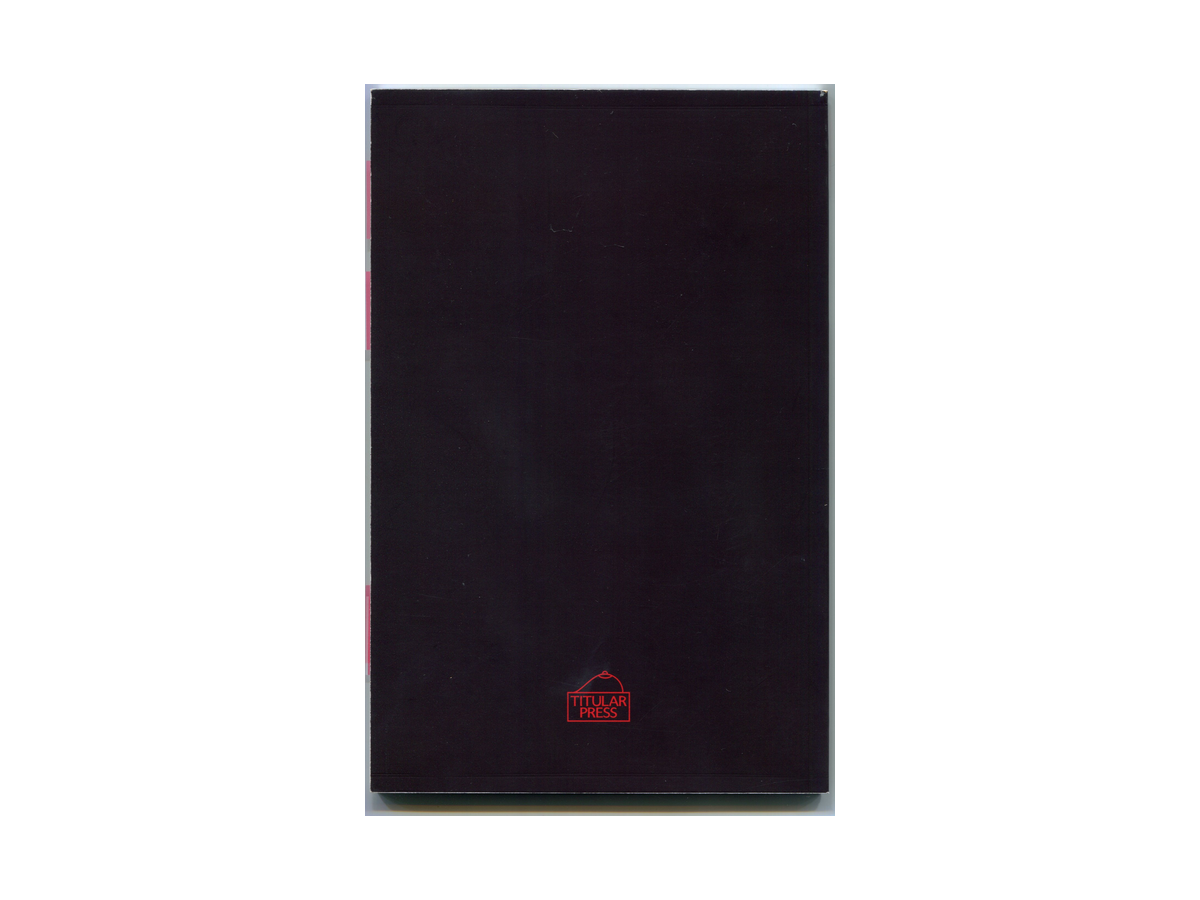
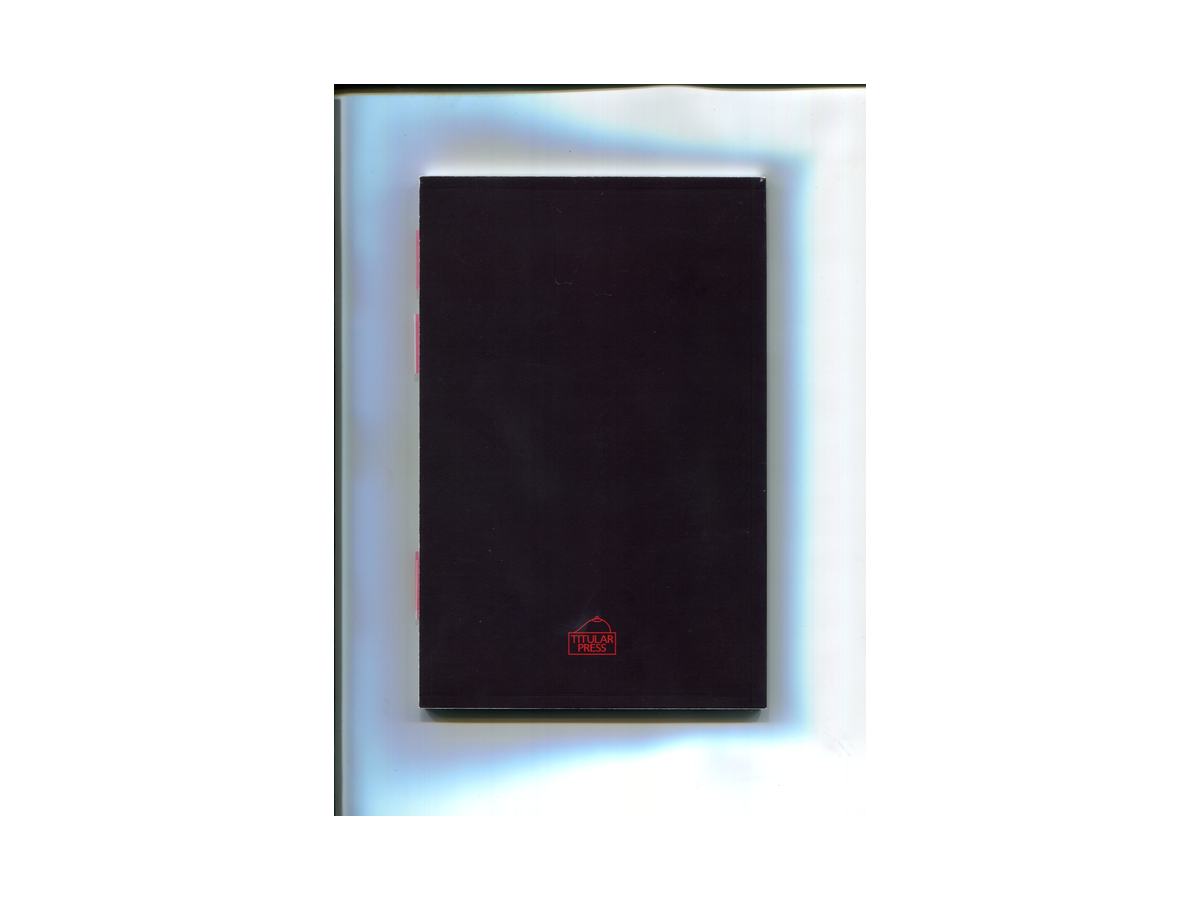
Simplify library scan processing

Changed region(s): [[0.2775, 0.0933, 0.7092, 0.9333]]

diff --git a/photos.js b/photos.js
@@ -1,5 +1,6 @@
 window.archivePhotos = [
   {"src": "images/library/processed/front/01-privacy-by-molly-young-front.png", "caption": "Privacy By Molly Young", "backSrc": "images/library/processed/back/01-privacy-by-molly-young-back.png"},
-  {"src": "images/library/processed/front/02-the-paris-review-254-front.png", "caption": "The Paris Review 254", "backSrc": "images/library/processed/back/02-the-paris-review-254-back.png"},
-  {"src": "images/library/processed/front/03-women-at-work-by-the-paris-review-front.png", "caption": "Women At Work By The Paris Review", "backSrc": "images/library/processed/back/03-women-at-work-by-the-paris-review-back.png"},
+  {"src": "images/library/processed/front/02-the-hour-of-the-star-by-clarice-lispector-front.png", "caption": "The Hour Of The Star By Clarice Lispector", "backSrc": "images/library/processed/back/02-the-hour-of-the-star-by-clarice-lispector-back.png"},
+  {"src": "images/library/processed/front/03-the-paris-review-254-front.png", "caption": "The Paris Review 254", "backSrc": "images/library/processed/back/03-the-paris-review-254-back.png"},
+  {"src": "images/library/processed/front/04-women-at-work-by-the-paris-review-front.png", "caption": "Women At Work By The Paris Review", "backSrc": "images/library/processed/back/04-women-at-work-by-the-paris-review-back.png"},
 ];

diff --git a/styles.css b/styles.css
@@ -89,7 +89,7 @@ h1,
 .photo-holder {
   aspect-ratio: 4 / 3;
   display: block;
-  object-fit: cover;
+  object-fit: contain;
   width: 100%;
 }
 

diff --git a/tools/process_library_images.py b/tools/process_library_images.py
@@ -2,11 +2,10 @@
 from __future__ import annotations
 
 import json
-import math
 import re
 from pathlib import Path
 
-from PIL import Image, ImageChops, ImageFilter, ImageStat
+from PIL import Image, ImageOps
 
 ROOT = Path(__file__).resolve().parents[1]
 ORIGINALS_DIR = ROOT / "images" / "library" / "originals"
@@ -33,164 +32,11 @@ def caption_from_name(path: Path) -> str:
     return words.title() if words else "Caption"
 
 
-def largest_inner_component_bbox(mask: Image.Image) -> tuple[int, int, int, int] | None:
-    width, height = mask.size
-    max_side = max(width, height)
-    scale = min(1.0, 900 / max_side)
-    work = mask
-    if scale < 1:
-        work = mask.resize(
-            (max(1, round(width * scale)), max(1, round(height * scale))),
-            Image.Resampling.NEAREST,
-        )
-
-    work_width, work_height = work.size
-    pixels = work.load()
-    seen = bytearray(work_width * work_height)
-    best: tuple[int, int, int, int, int] | None = None
-
-    for y in range(work_height):
-        for x in range(work_width):
-            index = y * work_width + x
-            if seen[index] or pixels[x, y] == 0:
-                continue
-
-            stack = [(x, y)]
-            seen[index] = 1
-            area = 0
-            left = right = x
-            top = bottom = y
-            touches_border = False
-
-            while stack:
-                current_x, current_y = stack.pop()
-                area += 1
-                left = min(left, current_x)
-                right = max(right, current_x)
-                top = min(top, current_y)
-                bottom = max(bottom, current_y)
-
-                if (
-                    current_x == 0
-                    or current_y == 0
-                    or current_x == work_width - 1
-                    or current_y == work_height - 1
-                ):
-                    touches_border = True
-
-                for next_x, next_y in (
-                    (current_x - 1, current_y),
-                    (current_x + 1, current_y),
-                    (current_x, current_y - 1),
-                    (current_x, current_y + 1),
-                ):
-                    if not (0 <= next_x < work_width and 0 <= next_y < work_height):
-                        continue
-
-                    next_index = next_y * work_width + next_x
-                    if seen[next_index] or pixels[next_x, next_y] == 0:
-                        continue
-
-                    seen[next_index] = 1
-                    stack.append((next_x, next_y))
-
-            if touches_border:
-                continue
-
-            if best is None or area > best[0]:
-                best = (area, left, top, right + 1, bottom + 1)
-
-    if best is None:
-        return None
-
-    _, left, top, right, bottom = best
-    if scale < 1:
-        return (
-            max(0, math.floor(left / scale)),
-            max(0, math.floor(top / scale)),
-            min(width, math.ceil(right / scale)),
-            min(height, math.ceil(bottom / scale)),
-        )
-
-    return (left, top, right, bottom)
-
-
-def estimate_background(image: Image.Image) -> tuple[int, int, int]:
-    image = image.convert("RGB")
-    width, height = image.size
-    sample_width = max(1, min(width, max(width // 16, 12)))
-    sample_height = max(1, min(height, max(height // 16, 12)))
-
-    strips = [
-        image.crop((0, 0, width, sample_height)),
-        image.crop((0, height - sample_height, width, height)),
-        image.crop((0, 0, sample_width, height)),
-        image.crop((width - sample_width, 0, width, height)),
-    ]
-
-    samples = []
-    for strip in strips:
-        samples.extend(strip.resize((1, 1), Image.Resampling.BOX).getdata())
-
-    channels = list(zip(*samples))
-    return tuple(int(sorted(channel)[len(channel) // 2]) for channel in channels)
-
-
-def foreground_mask(image: Image.Image) -> Image.Image:
-    rgb = image.convert("RGB")
-    background = Image.new("RGB", rgb.size, estimate_background(rgb))
-    diff = ImageChops.difference(rgb, background).convert("L")
-
-    stat = ImageStat.Stat(diff)
-    threshold = max(18, min(70, int(stat.mean[0] + stat.stddev[0] * 0.65)))
-    mask = diff.point(lambda pixel: 255 if pixel > threshold else 0)
-
-    # Smooth small scanner noise and slightly expand the detected book edge.
-    mask = mask.filter(ImageFilter.BoxBlur(1))
-    bbox = mask.getbbox()
-    if not bbox:
-        return Image.new("L", rgb.size, 255)
-
-    return mask
-
-
-def dark_subject_bbox(image: Image.Image) -> tuple[int, int, int, int] | None:
-    grayscale = image.convert("L")
-    stat = ImageStat.Stat(grayscale)
-    threshold = max(48, min(170, int(stat.mean[0] - stat.stddev[0] * 0.35)))
-    mask = grayscale.point(lambda pixel: 255 if pixel < threshold else 0)
-    mask = mask.filter(ImageFilter.MedianFilter(7))
-    return largest_inner_component_bbox(mask) or mask.getbbox()
-
-
-def trim_to_subject(image: Image.Image) -> Image.Image:
-    bbox = dark_subject_bbox(image) or foreground_mask(image).getbbox()
-    if not bbox:
-        return image.convert("RGBA")
-
-    left, top, right, bottom = bbox
-    width, height = image.size
-    margin = max(8, round(max(width, height) * 0.006))
-
-    left = max(0, left - margin)
-    top = max(0, top - margin)
-    right = min(width, right + margin)
-    bottom = min(height, bottom + margin)
-
-    return image.convert("RGBA").crop((left, top, right, bottom))
-
-
 def fit_on_canvas(image: Image.Image) -> Image.Image:
     canvas_width, canvas_height = CANVAS_SIZE
-    max_width = canvas_width - PADDING * 2
-    max_height = canvas_height - PADDING * 2
-
-    scale = min(max_width / image.width, max_height / image.height)
-    fitted_size = (
-        max(1, math.floor(image.width * scale)),
-        max(1, math.floor(image.height * scale)),
-    )
-    fitted = image.resize(fitted_size, Image.Resampling.LANCZOS)
+    max_size = (canvas_width - PADDING * 2, canvas_height - PADDING * 2)
+    source = ImageOps.exif_transpose(image).convert("RGBA")
+    fitted = ImageOps.contain(source, max_size, method=Image.Resampling.LANCZOS)
 
     canvas = Image.new("RGBA", CANVAS_SIZE, (0, 0, 0, 0))
     offset = (
@@ -223,7 +69,7 @@ def matching_back_cover(front_path: Path) -> Path | None:
 
 def process_image(path: Path, output_dir: Path, index: int, side: str) -> str:
     image = Image.open(path)
-    processed = fit_on_canvas(trim_to_subject(image))
+    processed = fit_on_canvas(image)
 
     filename = f"{index:02d}-{slugify(path.stem)}-{side}.png"
     output_path = output_dir / filename

diff --git a/README.md b/README.md
@@ -21,4 +21,4 @@ Open `index.html` in a browser to view the site.
 /Users/Kels/.cache/codex-runtimes/codex-primary-runtime/dependencies/python/bin/python3 tools/process_library_images.py
 ```
 
-The script exports cleaned images to `images/library/processed/` and updates `photos.js` with captions from the original file names. If a matching back cover exists, the site fades to it when the book is hovered or focused.
+The script fits each scan neatly into the same invisible frame, exports the files to `images/library/processed/`, and updates `photos.js` with captions from the original file names. If a matching back cover exists, the site fades to it when the book is hovered or focused.